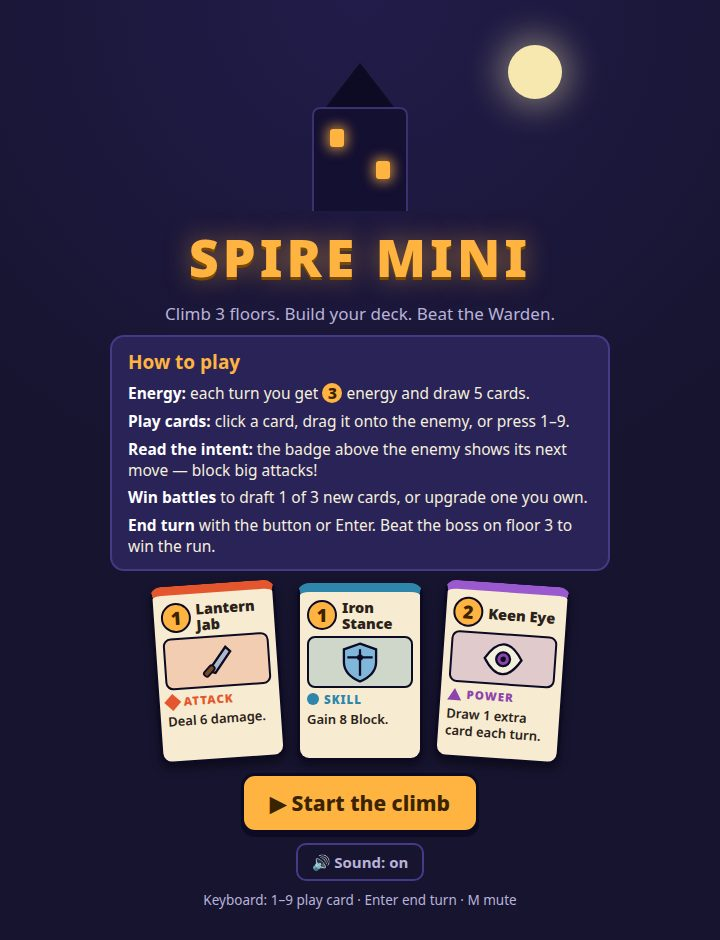
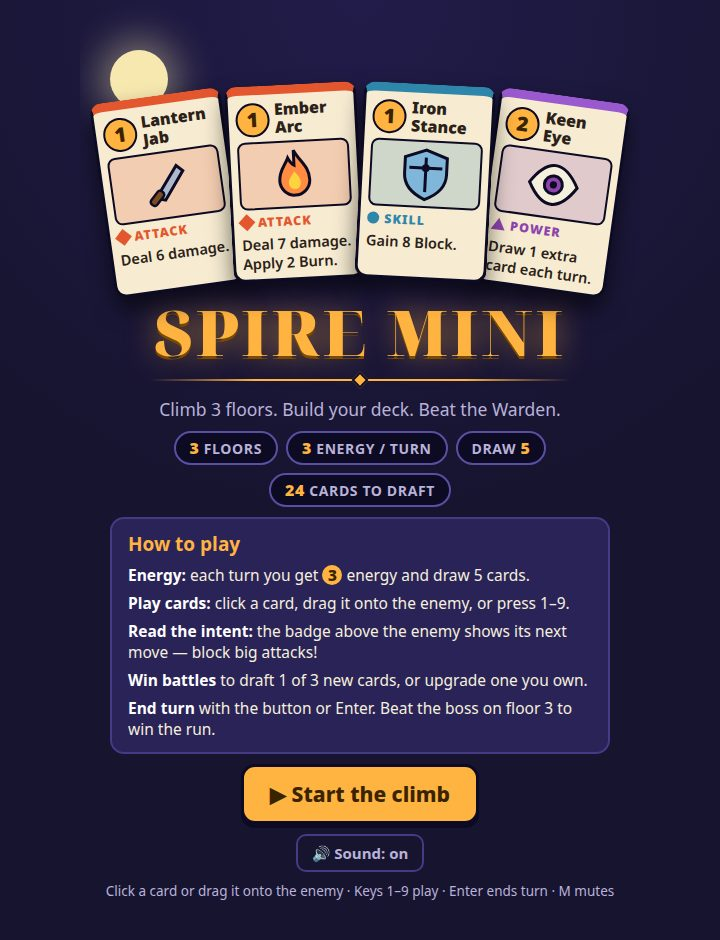
Spire Mini: poster-grade title screen (fanned real cards, serif title, stat strip)

diff --git a/game/css/style.css b/game/css/style.css
@@ -66,41 +66,62 @@ body {
   max-width: 500px;
 }
 
-/* ---------- Title ---------- */
-.title-art { position: relative; width: 100%; height: 170px; margin-top: 6px; }
-.moon {
-  position: absolute; right: 12%; top: 4px; width: 54px; height: 54px;
+/* ---------- Title (poster) ----------
+   A fan of four real cards over the moon, a big serif display title,
+   the run at a glance, the tutorial panel, then the start button.
+   The fan cards are rendered from card data by render.js; they are
+   decoration, so their hover only lifts them a little. */
+.poster-fan {
+  position: relative; width: 100%; height: 232px; margin-top: 4px;
+  display: flex; justify-content: center; align-items: flex-end;
+}
+.poster-fan .moon {
+  position: absolute; left: 3%; top: 2px; width: 58px; height: 58px;
   border-radius: 50%; background: #f7e8b0;
-  box-shadow: 0 0 34px 8px rgba(247, 232, 176, .45);
+  box-shadow: 0 0 38px 10px rgba(247, 232, 176, .45);
 }
-.spire { position: absolute; left: 50%; bottom: 0; transform: translateX(-50%); width: 130px; }
-.spire-tip {
-  width: 0; height: 0; margin: 0 auto;
-  border-left: 34px solid transparent; border-right: 34px solid transparent;
-  border-bottom: 44px solid #0d0a24;
+.poster-fan .card {
+  width: 132px; min-height: 196px; margin: 0 -6px; cursor: default;
+  transform: rotate(var(--fan, 0deg)) translateY(var(--lift, 0px));
+  box-shadow: 0 12px 22px rgba(0,0,0,.55);
 }
-.spire-body {
-  width: 96px; height: 104px; margin: 0 auto; background: #141032;
-  border: 2px solid #3a3170; border-bottom: none; border-radius: 8px 8px 0 0;
-  position: relative;
+.poster-fan .card:hover {
+  transform: rotate(var(--fan, 0deg)) translateY(calc(var(--lift, 0px) - 10px)) scale(1.06);
 }
-.spire-body::before, .spire-body::after {
-  content: ""; position: absolute; width: 14px; height: 18px; border-radius: 3px;
-  background: var(--amber); box-shadow: 0 0 12px 3px rgba(255, 179, 64, .7);
-}
-.spire-body::before { left: 16px; top: 20px; }
-.spire-body::after { right: 16px; top: 52px; }
-.spire-door {
-  width: 26px; height: 36px; margin: -36px auto 0; background: #241a08;
-  border: 2px solid var(--amber); border-bottom: none; border-radius: 13px 13px 0 0;
-}
+.poster-fan .card .cost { width: 34px; height: 34px; font-size: 20px; }
+.poster-fan .card .card-name { font-size: 16px; }
+.poster-fan .card .card-art { height: 68px; }
+.poster-fan .card .card-art svg { height: 60px; }
+.poster-fan .card .card-type { font-size: 12.5px; }
+.poster-fan .card .card-text { font-size: 14.5px; }
 
 .game-title {
-  font-size: 52px; letter-spacing: 4px; color: var(--amber);
-  text-shadow: 0 3px 0 #7a4a00, 0 0 26px rgba(255, 179, 64, .5);
-  font-weight: 900; text-align: center;
+  font-family: Georgia, "Noto Serif Display", "Noto Serif", "DejaVu Serif", "Times New Roman", serif;
+  font-size: 64px; letter-spacing: 3px; color: var(--amber);
+  text-shadow: 0 3px 0 #7a4a00, 0 0 30px rgba(255, 179, 64, .55);
+  font-weight: 900; text-align: center; line-height: 1.05; margin-top: 8px;
 }
-.tagline { color: var(--muted); font-size: 17px; text-align: center; }
+.title-rule { width: 100%; max-width: 420px; height: 14px; position: relative; margin-top: -2px; }
+.title-rule::before {
+  content: ""; position: absolute; left: 0; right: 0; top: 6px; height: 2px;
+  background: linear-gradient(90deg, transparent, var(--amber) 25%, var(--amber) 75%, transparent);
+}
+.title-rule span {
+  position: absolute; left: 50%; top: 1px; width: 12px; height: 12px;
+  transform: translateX(-50%) rotate(45deg);
+  background: var(--amber); border: 2px solid #0d0a24;
+}
+.tagline { color: var(--muted); font-size: 17.5px; text-align: center; }
+
+.poster-stats { display: flex; gap: 8px; flex-wrap: wrap; justify-content: center; }
+.poster-stat {
+  background: #0d0a24; border: 2px solid #5a4fa3; border-radius: 999px;
+  padding: 4px 14px; font-size: 14px; font-weight: 700; color: var(--muted);
+  text-transform: uppercase; letter-spacing: .6px;
+}
+.poster-stat b { color: var(--amber); font-size: 16px; }
+
+.start-btn { font-size: 25px; padding: 16px 44px; min-height: 66px; border-radius: 16px; }
 
 .tutorial h2 { font-size: 19px; color: var(--amber); margin-bottom: 8px; }
 .tutorial ul { list-style: none; display: flex; flex-direction: column; gap: 7px; font-size: 15.5px; line-height: 1.35; }
@@ -127,13 +148,7 @@ body {
   background: transparent; color: var(--muted); border: 2px solid #453a85;
   border-radius: 10px; padding: 7px 14px;
 }
-.hint { color: var(--muted); font-size: 13.5px; }
-
-.sample-cards { display: flex; gap: 10px; justify-content: center; margin: 2px 0; }
-.sample-cards .card { margin: 0; width: 126px; min-height: 178px; cursor: default; }
-.sample-cards .card:nth-child(1) { transform: rotate(-4deg); }
-.sample-cards .card:nth-child(3) { transform: rotate(4deg); }
-.sample-cards .card:hover { transform: translateY(-6px) scale(1.04); }
+.hint { color: var(--muted); font-size: 13.5px; text-align: center; }
 
 /* ---------- Battle ---------- */
 #screen-battle { padding-top: 8px; }
@@ -375,4 +390,21 @@ body {
   .hp-bar { width: 200px; }
   .enemy-name { font-size: 21px; }
   .game-title { font-size: 42px; }
+  /* Poster fan shrinks and flattens with the phone so the edge cards
+     never clip and their text stays clear of the neighbours. */
+  .poster-fan { height: 186px; }
+  .poster-fan .card {
+    width: 90px; min-height: 146px; margin: 0 -8px; padding: 6px 6px 5px;
+    transform: rotate(calc(var(--fan, 0deg) * 0.6)) translateY(var(--lift, 0px));
+  }
+  .poster-fan .card:hover {
+    transform: rotate(calc(var(--fan, 0deg) * 0.6)) translateY(calc(var(--lift, 0px) - 10px)) scale(1.06);
+  }
+  .poster-fan .card .cost { width: 26px; height: 26px; font-size: 15px; }
+  .poster-fan .card .card-name { font-size: 12px; }
+  .poster-fan .card .card-art { height: 44px; }
+  .poster-fan .card .card-art svg { height: 38px; }
+  .poster-fan .card .card-type { font-size: 10px; }
+  .poster-fan .card .card-text { font-size: 11.5px; }
+  .start-btn { font-size: 22px; padding: 14px 30px; }
 }

diff --git a/game/index.html b/game/index.html
@@ -9,14 +9,23 @@
 <body>
 <div id="app">
 
-  <!-- Title screen with the short tutorial -->
+  <!-- Title screen: poster layout — a fan of real cards over the moon,
+       a big serif title, the run at a glance, the short tutorial, then
+       the start button. The sample cards are rendered by render.js from
+       the actual card data, so they always match the game. -->
   <section id="screen-title" class="screen">
-    <div class="title-art" aria-hidden="true">
-      <div class="spire"><div class="spire-tip"></div><div class="spire-body"></div><div class="spire-door"></div></div>
+    <div class="poster-fan" id="poster-fan" aria-hidden="true">
       <div class="moon"></div>
     </div>
     <h1 class="game-title">SPIRE MINI</h1>
+    <div class="title-rule" aria-hidden="true"><span></span></div>
     <p class="tagline">Climb 3 floors. Build your deck. Beat the Warden.</p>
+    <div class="poster-stats" aria-hidden="true">
+      <span class="poster-stat"><b>3</b> floors</span>
+      <span class="poster-stat"><b>3</b> energy / turn</span>
+      <span class="poster-stat">draw <b>5</b></span>
+      <span class="poster-stat"><b>24</b> cards to draft</span>
+    </div>
     <div class="tutorial panel">
       <h2>How to play</h2>
       <ul>
@@ -27,14 +36,9 @@
         <li><b>End turn</b> with the button or Enter. Beat the boss on floor 3 to win the run.</li>
       </ul>
     </div>
-    <div class="sample-cards" aria-hidden="true">
-      <div class="card type-attack"><div class="card-top"><div class="cost">1</div><div class="card-name">Lantern Jab</div></div><div class="card-art" style="background:#e4572e33"><svg viewBox="0 0 40 40"><path d="M12 28 L28 8 L32 12 L18 30 Z" fill="#aeb8cc" stroke="#0d0a24" stroke-width="2"/><rect x="7" y="26" width="11" height="5" rx="2" transform="rotate(-45 12 28)" fill="#7a4a21" stroke="#0d0a24" stroke-width="1.6"/></svg></div><div class="card-type" style="color:#e4572e"><span class="shape diamond" style="background:#e4572e"></span>Attack</div><div class="card-text">Deal 6 damage.</div></div>
-      <div class="card type-skill"><div class="card-top"><div class="cost">1</div><div class="card-name">Iron Stance</div></div><div class="card-art" style="background:#2e86ab33"><svg viewBox="0 0 40 40"><path d="M20 4 L34 9 V20 C34 29 27 34 20 37 C13 34 6 29 6 20 V9 Z" fill="#7fb6d9" stroke="#0d0a24" stroke-width="2"/><path d="M20 9 V32 M9 16 H31" stroke="#0d0a24" stroke-width="2"/><circle cx="20" cy="16" r="2.6" fill="#0d0a24"/></svg></div><div class="card-type" style="color:#2e86ab"><span class="shape circle" style="background:#2e86ab"></span>Skill</div><div class="card-text">Gain 8 Block.</div></div>
-      <div class="card type-power"><div class="card-top"><div class="cost">2</div><div class="card-name">Keen Eye</div></div><div class="card-art" style="background:#8e44ad33"><svg viewBox="0 0 40 40"><path d="M4 20 C10 10 16 7 20 7 C24 7 30 10 36 20 C30 30 24 33 20 33 C16 33 10 30 4 20 Z" fill="#f5efdd" stroke="#0d0a24" stroke-width="2"/><circle cx="20" cy="20" r="6" fill="#8e44ad" stroke="#0d0a24" stroke-width="2"/><circle cx="20" cy="20" r="2.4" fill="#0d0a24"/></svg></div><div class="card-type" style="color:#8e44ad"><span class="shape triangle" style="color:#8e44ad"></span>Power</div><div class="card-text">Draw 1 extra card each turn.</div></div>
-    </div>
-    <button id="btn-start" class="big-btn primary">▶ Start the climb</button>
+    <button id="btn-start" class="big-btn primary start-btn">▶ Start the climb</button>
     <button id="btn-mute" class="small-btn">🔊 Sound: on</button>
-    <p class="hint">Keyboard: 1–9 play card · Enter end turn · M mute</p>
+    <p class="hint">Click a card or drag it onto the enemy · Keys 1–9 play · Enter ends turn · M mutes</p>
   </section>
 
   <!-- Battle screen -->

diff --git a/game/js/render.js b/game/js/render.js
@@ -3,7 +3,7 @@
 // the floating damage numbers all live here. The engine in battle.js knows
 // nothing about the DOM; this file only reads state and events.
 
-import { resolveCard, CARD_TYPES } from './cards.js';
+import { resolveCard, makeCard, CARD_TYPES } from './cards.js';
 import { currentIntent } from './battle.js';
 import { intentText } from './enemies.js';
 
@@ -90,6 +90,27 @@ export function cardElement(instance, opts = {}) {
     (card.upgraded ? '<div class="up-badge">UPGRADED</div>' : '') +
     (opts.keyHint ? '<div class="card-key">' + opts.keyHint + '</div>' : '');
   return el;
+}
+
+// The title screen's poster fan: four real cards (an attack, a burn
+// attack, a block skill and a power) rendered from the same card data
+// and cardElement the game uses, fanned big enough to read at a glance.
+// They are decoration only — not focusable, not playable.
+export function renderSampleCards(el) {
+  const ids = ['jab', 'ember-arc', 'iron-stance', 'keen-eye'];
+  const angles = [-8, -3, 3, 8];
+  const lifts = [10, 0, 0, 10];
+  const layers = [2, 3, 3, 2];
+  el.querySelectorAll('.card').forEach((c) => c.remove());
+  ids.forEach((id, i) => {
+    const c = cardElement(makeCard(id));
+    c.removeAttribute('tabindex');
+    c.removeAttribute('role');
+    c.style.setProperty('--fan', angles[i] + 'deg');
+    c.style.setProperty('--lift', lifts[i] + 'px');
+    c.style.zIndex = String(layers[i]);
+    el.appendChild(c);
+  });
 }
 
 // --- Battle screen ------------------------------------------------------------

diff --git a/game/js/main.js b/game/js/main.js
@@ -5,7 +5,7 @@
 
 import { createBattle, playCard, beginEnemyTurn, resolveEnemyTurn, drainEvents, collectDeck } from './battle.js';
 import { createRun, currentEnemy, rewardChoices, takeReward, upgradeableCards, upgradeCard, advanceRun, runFinished, FLOORS, REST_HEAL } from './state.js';
-import { showScreen, renderBattle, renderReward, renderUpgrade, renderStats, renderDeckList, spawnFloater, shakeEnemy } from './render.js';
+import { showScreen, renderBattle, renderReward, renderUpgrade, renderStats, renderDeckList, renderSampleCards, spawnFloater, shakeEnemy } from './render.js';
 import { attachInput } from './input.js';
 import { sfx, setMuted, isMuted } from './audio.js';
 import { stageShot } from './shots.js';
@@ -176,6 +176,7 @@ function wireButtons() {
 
 function boot() {
   wireButtons();
+  renderSampleCards($('poster-fan'));
   $('btn-mute').textContent = isMuted() ? '🔇 Sound: off' : '🔊 Sound: on';
   attachInput({ onPlayCard, onEndTurn, onToggleMute: toggleMute });
   // Refit the hand when the viewport changes (rotation, window resize).
